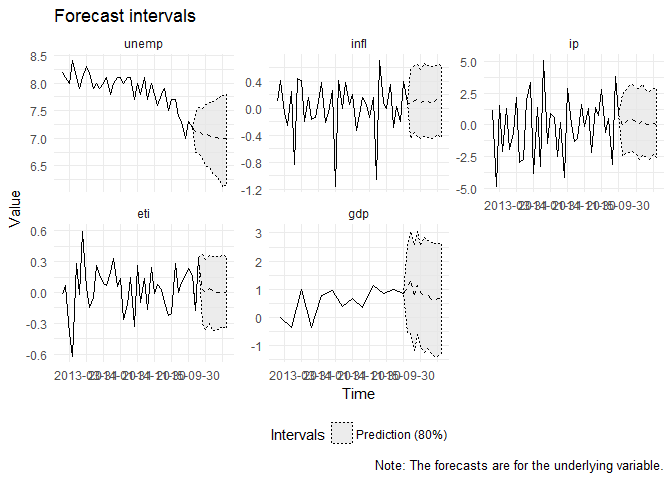
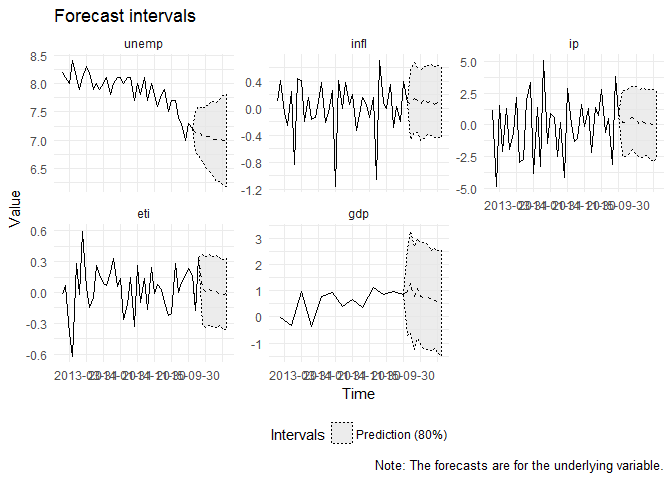
Added a missing constant in lnpYY1.

diff --git a/README.md b/README.md
@@ -135,7 +135,7 @@ prior_obj <- update_prior(prior_obj, d = "intercept", prior_psi_mean = prior_psi
                           prior_psi_Omega = prior_psi_Omega)
 prior_obj
 #> The following elements of the prior have not been set: 
-#>  d_fcst
+#>  
 #> 
 #> Checking if steady-state prior can be run... TRUE
 #> 
@@ -171,18 +171,18 @@ For forecasts, there is a `predict` method for class `mfbvar` which computes for
 ``` r
 predict(mod_minn, pred_quantiles = 0.5)
 #> $quantile_50
-#>               unemp       infl           ip           eti       gdp
-#> 2015-10-31 7.200000 0.07701935 -0.004643207  0.1615214428 1.0334867
-#> 2015-11-30 7.116526 0.06172307  0.202293754 -0.1787217199 1.2930864
-#> 2015-12-31 7.148913 0.11643332  0.524777194  0.3393369697 0.7085339
-#> fcst_1     7.075498 0.12691133  0.427165448  0.0342564233 1.1369352
-#> fcst_2     7.062990 0.06414728  0.277273107 -0.0009670150 0.8666838
-#> fcst_3     7.050790 0.12065246  0.101139669  0.0381530456 0.7470196
-#> fcst_4     7.025889 0.11452232  0.360413403  0.0179072981 0.8181148
-#> fcst_5     7.018966 0.06620041  0.044617892 -0.0012360760 0.6259281
-#> fcst_6     6.995215 0.10085845  0.032783648 -0.0007084931 0.5774751
-#> fcst_7     6.991280 0.13656538  0.116635830  0.0037335737 0.6804644
-#> fcst_8     6.998159 0.10748988  0.018289514  0.0031867912 0.6784586
+#>               unemp       infl          ip          eti       gdp
+#> 2015-10-31 7.200000 0.07701935  0.15937929  0.161521443 0.9532468
+#> 2015-11-30 7.133971 0.06294611  0.22159661 -0.178721720 1.2583549
+#> 2015-12-31 7.144809 0.14946118  0.41239687  0.339336970 0.7827024
+#> fcst_1     7.071454 0.10820970  0.61760986  0.039354282 1.0709753
+#> fcst_2     7.063182 0.05068836  0.33710755  0.013616411 0.7690866
+#> fcst_3     7.061058 0.13085761  0.02997096  0.034041795 0.7069756
+#> fcst_4     7.002702 0.09072667  0.27579304  0.012184009 0.7835469
+#> fcst_5     7.004394 0.11209962  0.14695194  0.014447554 0.6775694
+#> fcst_6     7.026714 0.05772676  0.14264816 -0.015879097 0.6082434
+#> fcst_7     6.989170 0.08354229 -0.01363007 -0.018254112 0.5807203
+#> fcst_8     6.988067 0.09529331 -0.02175004 -0.005380111 0.5294131
 ```
 
 If desired, it can be requested in a tidy format.
@@ -191,11 +191,11 @@ If desired, it can be requested in a tidy format.
 head(predict(mod_minn, pred_quantiles = 0.5, tidy = TRUE))
 #>      value  fcst_date time variable quantile
 #> 1 7.200000 2015-10-31  231    unemp      0.5
-#> 2 7.116526 2015-11-30  232    unemp      0.5
-#> 3 7.148913 2015-12-31  233    unemp      0.5
-#> 4 7.075498     fcst_1  234    unemp      0.5
-#> 5 7.062990     fcst_2  235    unemp      0.5
-#> 6 7.050790     fcst_3  236    unemp      0.5
+#> 2 7.133971 2015-11-30  232    unemp      0.5
+#> 3 7.144809 2015-12-31  233    unemp      0.5
+#> 4 7.071454     fcst_1  234    unemp      0.5
+#> 5 7.063182     fcst_2  235    unemp      0.5
+#> 6 7.061058     fcst_3  236    unemp      0.5
 ```
 
 Calling plot on `mfbvar_ss` or `mfbvar_minn` objects produces plots of the forecasts and, by default, `5*n_fcst` of the preceding values.
@@ -246,52 +246,52 @@ summary(mod_minn)
 #> 
 #> Pi:
 #>        indep
-#> dep          unemp.1       infl.1         ip.1       eti.1       gdp.1
-#>   unemp  0.572374264 -0.056742740 -0.009364303 -0.06502777 0.004762852
-#>   infl  -0.066242868  0.007390429  0.011033093  0.06875388 0.014929318
-#>   ip    -0.227054132  0.336078252 -0.326273986  1.24212947 0.069561711
-#>   eti    0.009963594 -0.101253806 -0.010084351  0.12917873 0.038349551
-#>   gdp    0.003745415  0.264524218  0.009469394  1.16124166 0.066392826
+#> dep         unemp.1       infl.1         ip.1       eti.1       gdp.1
+#>   unemp  0.57374475 -0.059666359 -0.009725344 -0.06143760 0.006146794
+#>   infl  -0.06984886  0.002022346  0.010754882  0.07097111 0.014382233
+#>   ip    -0.28026095  0.373048568 -0.324879157  1.28380761 0.046542786
+#>   eti    0.01050189 -0.106675765 -0.010801383  0.12754578 0.040666585
+#>   gdp   -0.14696300  0.213991024  0.014547391  1.13724644 0.041164095
 #>        indep
-#> dep          unemp.2      infl.2         ip.2       eti.2        gdp.2
-#>   unemp  0.225314374  0.02716048 -0.016244818  0.07137713 -0.009453939
-#>   infl  -0.001205395 -0.10836049  0.009186705 -0.09990193 -0.023213311
-#>   ip     0.018802479 -0.05081397 -0.115018254  0.52220653  0.125273604
-#>   eti    0.057302754 -0.06743685  0.003060925  0.03415696  0.002479488
-#>   gdp   -0.022339848 -0.16859089  0.053304900  0.07833943  0.031460457
+#> dep          unemp.2      infl.2         ip.2       eti.2         gdp.2
+#>   unemp 0.2244127962  0.03356854 -0.015902327  0.06713901 -0.0127318401
+#>   infl  0.0007198677 -0.10438354  0.008958532 -0.10579849 -0.0257301594
+#>   ip    0.0379167035 -0.02420588 -0.106269928  0.51158351  0.1165583383
+#>   eti   0.0579525147 -0.06100234  0.003753267  0.03489051 -0.0008739203
+#>   gdp   0.0746023155 -0.13749131  0.053161687  0.11346517  0.0191243192
 #>        indep
 #> dep          unemp.3        infl.3         ip.3      eti.3        gdp.3
-#>   unemp  0.180351889 -0.0120547214 -0.001646184 0.02528323 -0.041442303
-#>   infl   0.006103104 -0.0688660353  0.013207295 0.04082093 -0.017802121
-#>   ip     0.045641055 -0.1428602690 -0.019679314 0.10930099  0.088518528
-#>   eti   -0.015846934 -0.0003909324 -0.001234317 0.07833812 -0.008625667
-#>   gdp   -0.070109123 -0.3021068616  0.036124651 0.30321531  0.038529950
+#>   unemp  0.180207956 -0.0114850007 -0.001508907 0.02592424 -0.041120556
+#>   infl   0.007807395 -0.0708573306  0.013163578 0.04482953 -0.016255266
+#>   ip     0.057385158 -0.1363831049 -0.021944661 0.12187429  0.088945671
+#>   eti   -0.017849315 -0.0009358978 -0.001677266 0.07604319 -0.009111746
+#>   gdp   -0.032142196 -0.3113726809  0.036196309 0.31889298  0.053109505
 #>        indep
 #> dep         unemp.4       infl.4        ip.4        eti.4        gdp.4
-#>   unemp -0.01415879  0.008869414 0.002506424  0.007901385 -0.020431122
-#>   infl   0.01634428 -0.087311386 0.001266026 -0.008628517 -0.009946634
-#>   ip     0.21320789 -0.020973535 0.038655965  0.284112599  0.113131901
-#>   eti   -0.02026170  0.005745872 0.004938141  0.022345006 -0.005353318
-#>   gdp    0.13494667 -0.269028247 0.016264250  0.201323303  0.035081245
+#>   unemp -0.01408621  0.008131893 0.002628882  0.005924449 -0.019056511
+#>   infl   0.01576549 -0.089161854 0.001888369 -0.006608489 -0.011180306
+#>   ip     0.23290153 -0.020399438 0.037653856  0.288592311  0.106793025
+#>   eti   -0.01859433  0.002372733 0.004739475  0.024390984 -0.004189443
+#>   gdp    0.14376710 -0.283877282 0.017936840  0.206197468  0.021997354
 #> 
 #> 
 #> Sigma:
 #>        
 #>                unemp        infl         ip          eti          gdp
-#>   unemp  0.073231687 -0.01483181 0.01171580 -0.003365347 -0.100533396
-#>   infl  -0.014831814  0.15169020 0.08364819  0.011057243  0.239915304
-#>   ip     0.011715798  0.08364819 3.43234373  0.039168147  1.175460275
-#>   eti   -0.003365347  0.01105724 0.03916815  0.061865744  0.006333024
-#>   gdp   -0.100533396  0.23991530 1.17546028  0.006333024  1.864657903
+#>   unemp  0.073875070 -0.01507315 0.01497214 -0.003623481 -0.092901512
+#>   infl  -0.015073150  0.15106145 0.08214672  0.011032287  0.244597985
+#>   ip     0.014972144  0.08214672 3.44281563  0.039709454  1.196231322
+#>   eti   -0.003623481  0.01103229 0.03970945  0.061596980  0.009206275
+#>   gdp   -0.092901512  0.24459799 1.19623132  0.009206275  1.949578823
 #> 
 #> 
 #> Intercept:
 #>            const
-#> unemp  0.2923536
-#> infl   0.4629738
-#> ip    -0.5382861
-#> eti   -0.2246670
-#> gdp    0.1925755
+#> unemp  0.2891893
+#> infl   0.4700659
+#> ip    -0.5041606
+#> eti   -0.2305289
+#> gdp    0.2735818
 summary(mod_ss)
 #> Mixed-frequency steady-state BVAR with:
 #> 5 variables (unemp, infl, ip, eti, gdp)
@@ -305,52 +305,52 @@ summary(mod_ss)
 #> 
 #> Pi:
 #>        indep
-#> dep          unemp.1      infl.1         ip.1       eti.1       gdp.1
-#>   unemp  0.563408853 -0.04945705 -0.007047260 -0.06629541 -0.00309496
-#>   infl  -0.065482608 -0.01155333  0.008347437  0.07459950  0.02868236
-#>   ip    -0.273580946  0.33212189 -0.321549204  1.26072114  0.07381512
-#>   eti    0.003820107 -0.10788125 -0.010829481  0.12792550  0.04216284
-#>   gdp   -0.032306521  0.13027369 -0.006523804  0.98892665  0.22170634
+#> dep          unemp.1        infl.1         ip.1       eti.1         gdp.1
+#>   unemp  0.565601021 -0.0501664015 -0.008066323 -0.05900102 -0.0007952872
+#>   infl  -0.074308112 -0.0007645842  0.009610393  0.07430790  0.0202526049
+#>   ip    -0.292356043  0.3809592812 -0.311388254  1.27143261  0.0273369800
+#>   eti    0.005474905 -0.1043835489 -0.010273813  0.12866117  0.0401244127
+#>   gdp   -0.086955522  0.1303419397 -0.004154454  0.93475266  0.2006896126
 #>        indep
-#> dep         unemp.2      infl.2         ip.2       eti.2         gdp.2
-#>   unemp  0.22803630  0.02920222 -0.015593095  0.07398457 -0.0100040546
-#>   infl  -0.01077737 -0.10540164  0.008588899 -0.10492124 -0.0296957862
-#>   ip     0.01758933 -0.05460193 -0.109415653  0.51399465  0.1123019586
-#>   eti    0.06117164 -0.06707381  0.003144783  0.04690193 -0.0004492229
-#>   gdp   -0.01979169 -0.20252282  0.042917915  0.07009796  0.0053450571
+#> dep           unemp.2      infl.2         ip.2       eti.2        gdp.2
+#>   unemp  0.2272407402  0.03003094 -0.015271721  0.06977185 -0.011801016
+#>   infl  -0.0005859319 -0.10423933  0.008107247 -0.10627777 -0.026221590
+#>   ip     0.0230012865 -0.04416975 -0.105170620  0.51452143  0.130369410
+#>   eti    0.0603574544 -0.06187126  0.004178602  0.04128857 -0.002430807
+#>   gdp    0.0281931404 -0.21188665  0.039575709  0.09325510  0.018345264
 #>        indep
-#> dep          unemp.3       infl.3         ip.3      eti.3        gdp.3
-#>   unemp  0.190605779 -0.014288875 -0.001699266 0.02646648 -0.039438624
-#>   infl   0.005207116 -0.062485130  0.013587542 0.04168071 -0.021136442
-#>   ip     0.044994353 -0.140966621 -0.018667092 0.11502864  0.083770939
-#>   eti   -0.017611546  0.001874705 -0.001467111 0.08030716 -0.008651891
-#>   gdp   -0.045001659 -0.300604351  0.028718841 0.29106863  0.005142655
+#> dep          unemp.3      infl.3         ip.3      eti.3        gdp.3
+#>   unemp  0.192855517 -0.01277139 -0.002135726 0.02822116 -0.038509233
+#>   infl   0.003961296 -0.06653470  0.013711116 0.04528497 -0.020365545
+#>   ip     0.048791472 -0.15263152 -0.017387847 0.11410916  0.088923592
+#>   eti   -0.018663976  0.00117084 -0.001842802 0.08064725 -0.007882617
+#>   gdp   -0.048661001 -0.30248337  0.031722774 0.28184597  0.006087828
 #>        indep
 #> dep         unemp.4       infl.4        ip.4        eti.4        gdp.4
-#>   unemp -0.01154218  0.010349839 0.003399745  0.006890141 -0.020740512
-#>   infl   0.01699807 -0.087192719 0.001135285 -0.012547980 -0.008692027
-#>   ip     0.20126368 -0.011754908 0.039020811  0.297280737  0.109143867
-#>   eti   -0.01967815  0.006182483 0.005391841  0.023310566 -0.005711757
-#>   gdp    0.11103877 -0.235093677 0.015785563  0.175579093  0.035895771
+#>   unemp -0.01671768  0.008880352 0.002886700  0.006653569 -0.020834549
+#>   infl   0.01883941 -0.085232793 0.001704578 -0.011254046 -0.010258549
+#>   ip     0.21395374 -0.014386281 0.039623469  0.277043607  0.100948317
+#>   eti   -0.01861225  0.005324372 0.005419283  0.022077091 -0.005266916
+#>   gdp    0.13001238 -0.232934626 0.018196798  0.174806053  0.028511508
 #> 
 #> 
 #> Sigma:
 #>        
-#>                unemp        infl         ip          eti          gdp
-#>   unemp  0.071704557 -0.01465440 0.01327780 -0.003217783 -0.078939715
-#>   infl  -0.014654396  0.14686225 0.08286960  0.010854177  0.216587756
-#>   ip     0.013277796  0.08286960 3.33926304  0.037751340  1.081994263
-#>   eti   -0.003217783  0.01085418 0.03775134  0.059705957  0.009036276
-#>   gdp   -0.078939715  0.21658776 1.08199426  0.009036276  1.473671702
+#>                unemp        infl         ip          eti         gdp
+#>   unemp  0.071486945 -0.01446027 0.01217137 -0.003060791 -0.07739934
+#>   infl  -0.014460268  0.14545293 0.08448546  0.010415174  0.22662945
+#>   ip     0.012171371  0.08448546 3.34777514  0.039130525  1.12270508
+#>   eti   -0.003060791  0.01041517 0.03913053  0.059837815  0.01561569
+#>   gdp   -0.077399337  0.22662945 1.12270508  0.015615690  1.51667808
 #> 
 #> 
 #> Psi:
 #>                d1
-#> unemp  6.54632275
-#> infl   0.13639460
-#> ip     0.06777891
-#> eti   -0.02992568
-#> gdp    0.52737299
+#> unemp  6.56635166
+#> infl   0.13596181
+#> ip     0.07535510
+#> eti   -0.02896786
+#> gdp    0.52704781
 ```
 
 ### Marginal data density estimation
@@ -358,14 +358,14 @@ summary(mod_ss)
 To estimate the marginal data density, there is a generic function `mdd()` for which there are methods for classes `mfbvar_ss` and `mfbvar_minn`.
 
 ``` r
-mdd_minn <- mdd(mod_minn, p_trunc = 0.5)
+mdd_minn <- mdd(mod_minn, p_trunc = 0.5) 
 mdd_ss_1 <- mdd(mod_ss)
 mdd_ss_2 <- mdd(mod_ss, p_trunc = 0.5)
 
 mdd_minn
-#> [1] -188.4597
+#> [1] -867.5615
 mdd_ss_1
-#> [1] -802.3351
+#> [1] -802.3645
 mdd_ss_2
-#> [1] -802.2286
+#> [1] -803.4983
 ```
